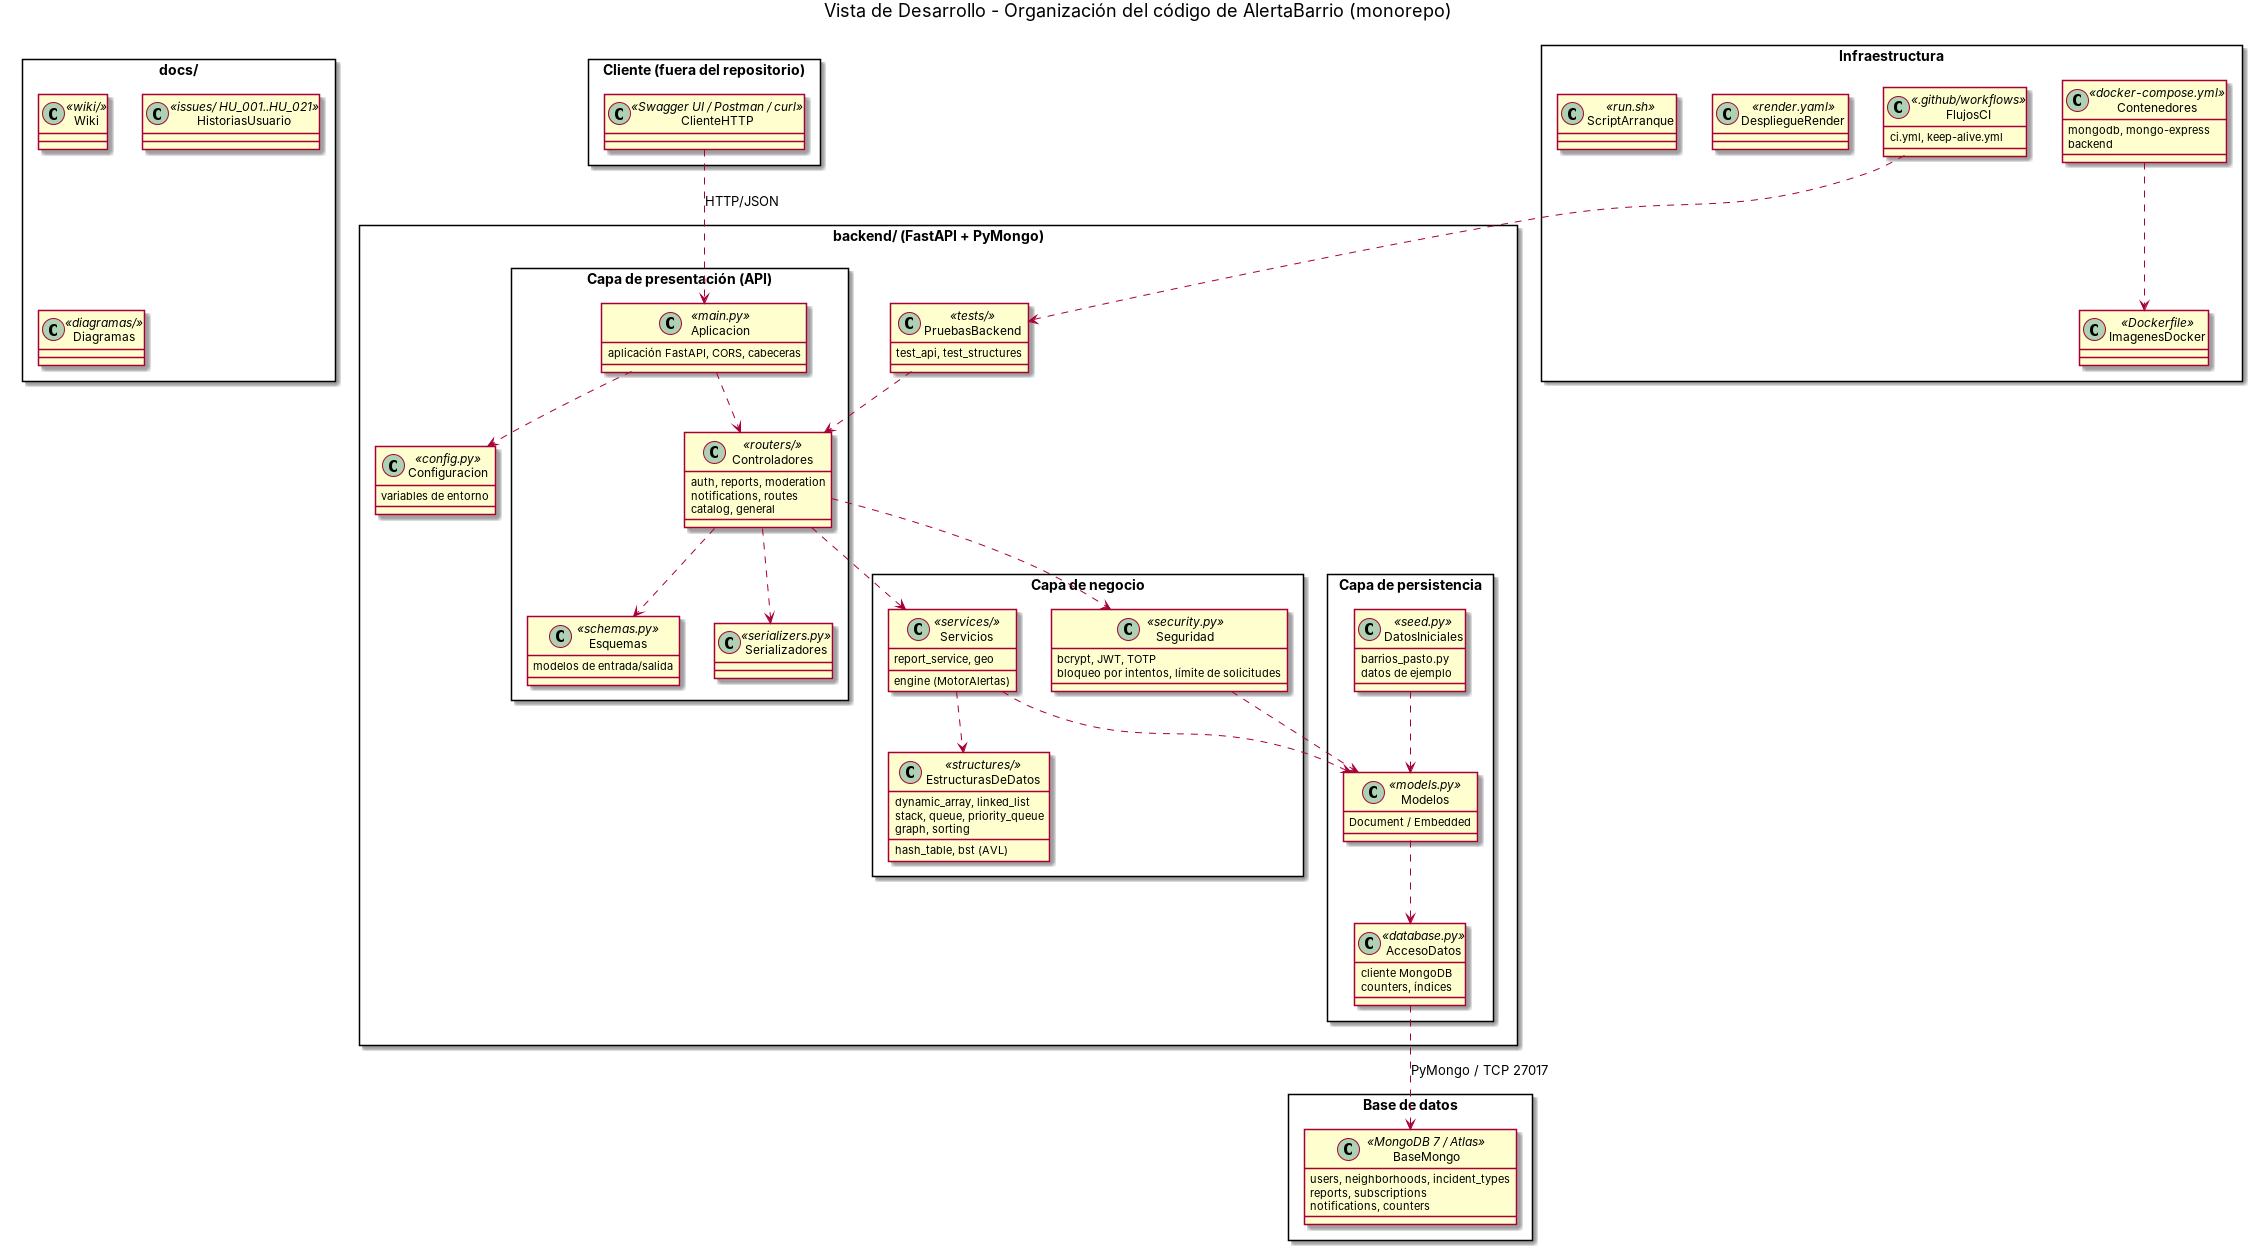
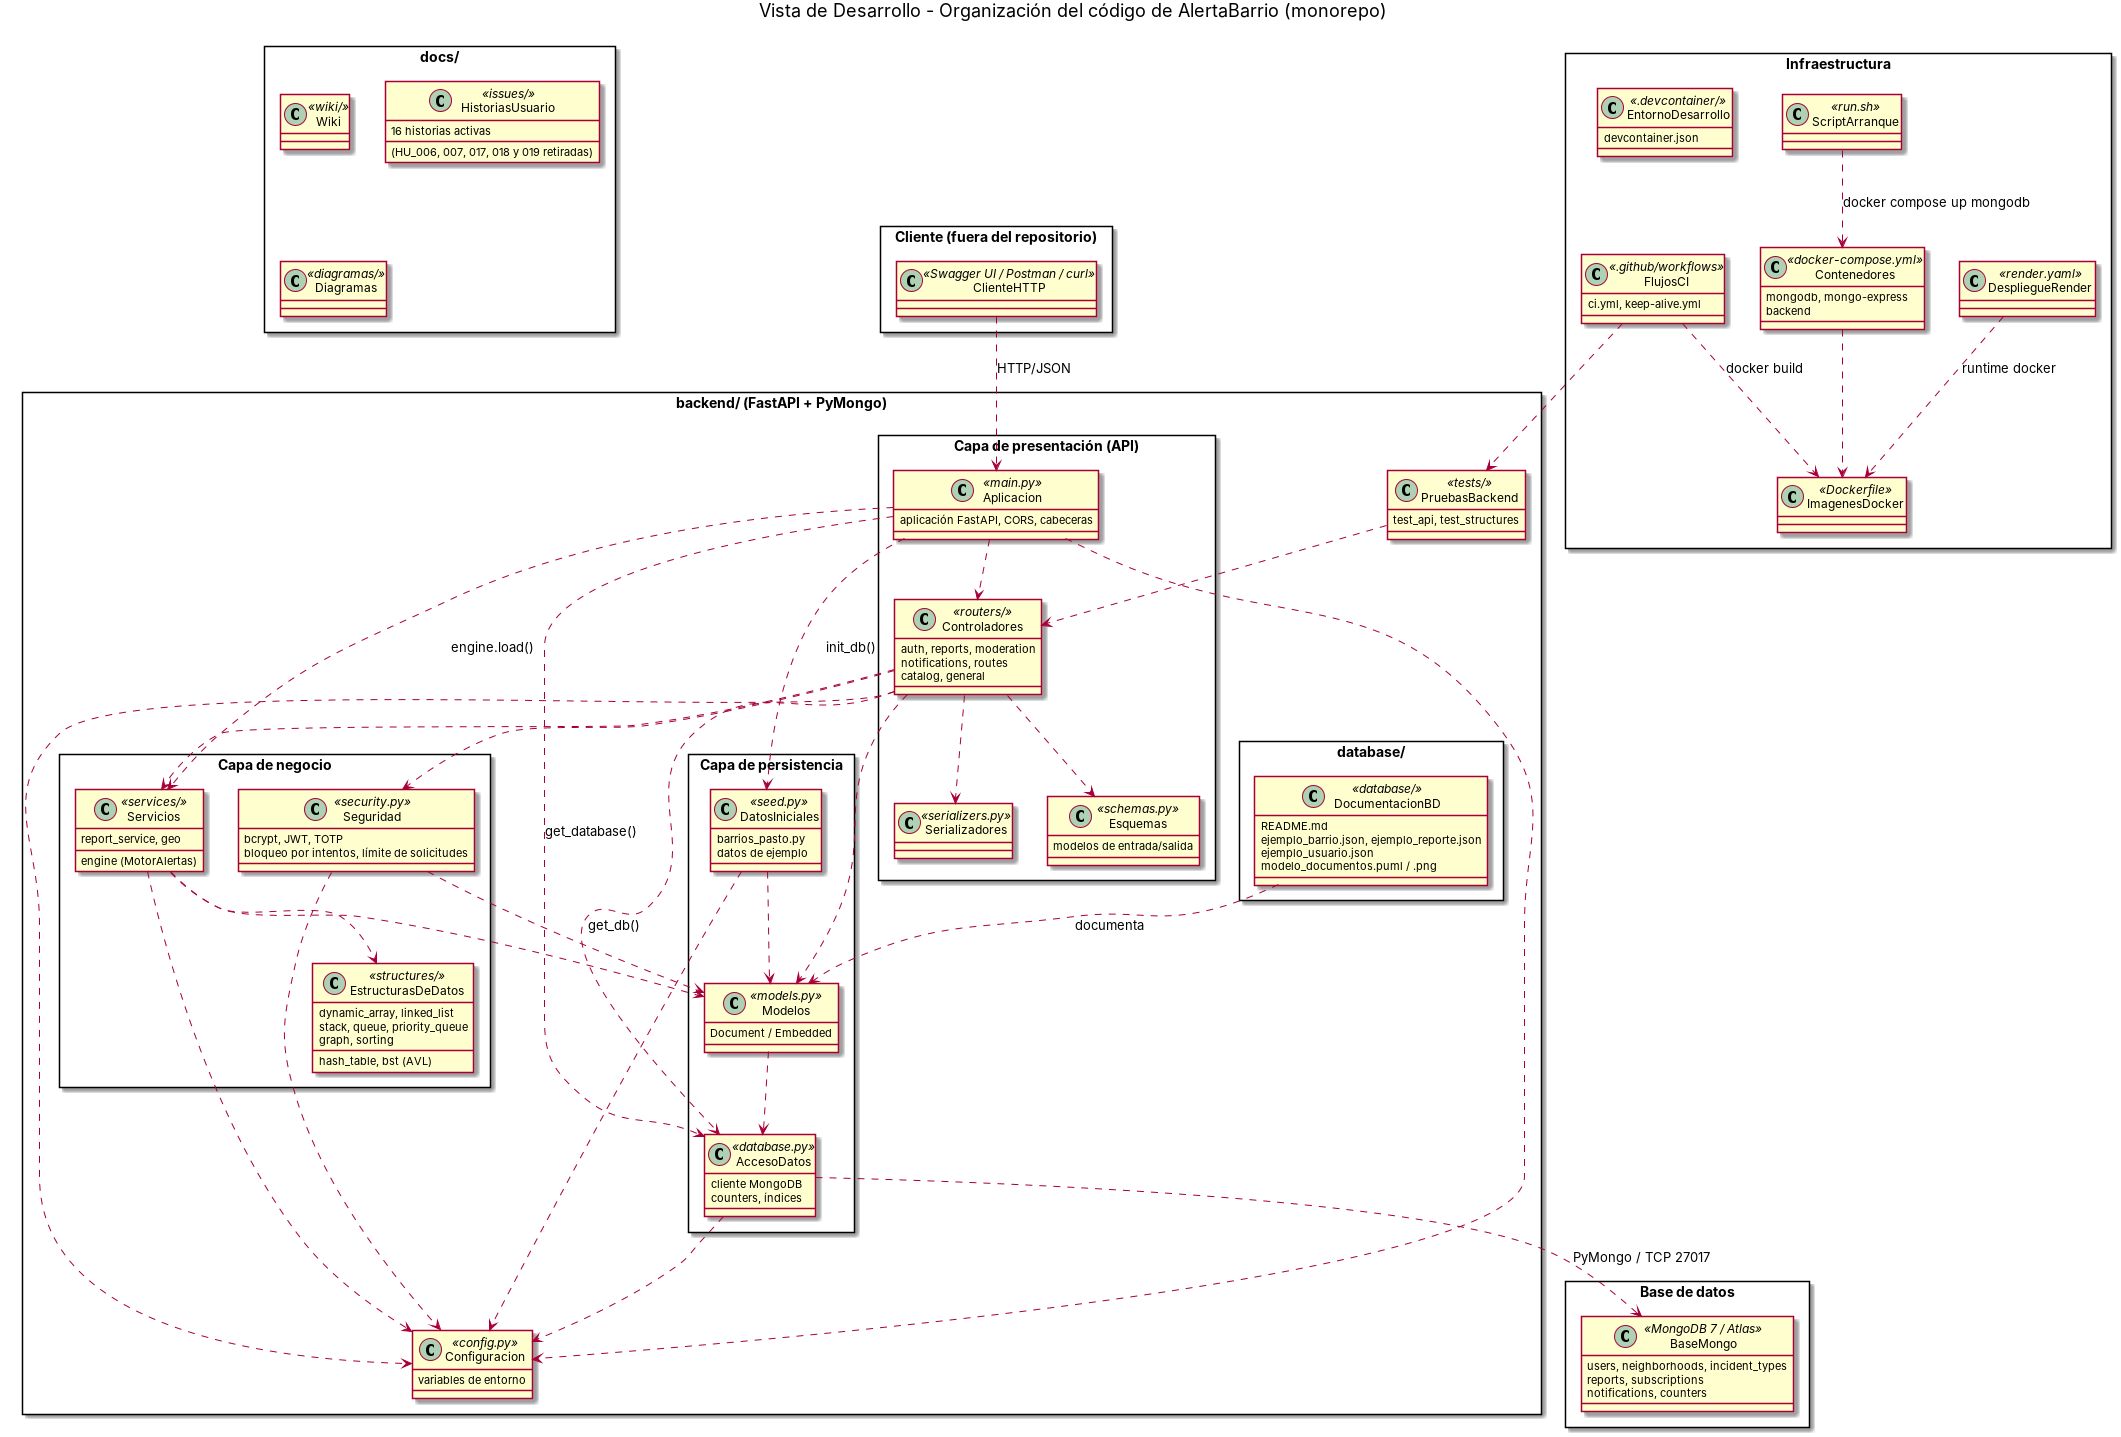
docs: vista de desarrollo con dependencias reales, database/ y .devcontainer

Changed region(s): [[0.0, 0.0312, 1.0, 0.9984], [0.3734, 0.0, 0.6535, 0.0312], [0.2801, 0.624, 0.3112, 0.6552]]

diff --git a/docs/wiki/06-Arquitectura-4+1-Vistas.md b/docs/wiki/06-Arquitectura-4+1-Vistas.md
@@ -107,11 +107,18 @@ Diagrama de clases con dos partes: abajo el **dominio** guardado en MongoDB y ar
 | `backend/` — Capa de negocio | Seguridad → `security.py`, Servicios → `services/` (engine = MotorAlertas, report_service, geo), EstructurasDeDatos → `structures/` |
 | `backend/` — Capa de persistencia | Modelos → `models.py`, AccesoDatos → `database.py`, DatosIniciales → `seed.py` |
 | `backend/` — transversales | Configuracion → `config.py`, PruebasBackend → `tests/` |
+| `backend/database/` | DocumentacionBD: `README.md`, ejemplos JSON (barrio, reporte, usuario) y `modelo_documentos.puml` / `.png` |
 | Base de datos | **MongoDB 7** (local con Docker, producción en MongoDB Atlas): 6 colecciones + `counters` |
-| Infraestructura | `docker-compose.yml`, `Dockerfile`, `.github/workflows` (ci, keep-alive), `render.yaml`, `run.sh` |
-| `docs/` | wiki, historias de usuario (issues) y diagramas |
+| Infraestructura | `docker-compose.yml`, `Dockerfile`, `.github/workflows` (ci, keep-alive), `render.yaml`, `run.sh`, `.devcontainer/` |
+| `docs/` | wiki, 16 historias de usuario activas en `issues/` (HU_006, 007, 017, 018 y 019 retiradas) y diagramas |
 
 Los clientes solo hablan con el backend por HTTP/JSON. Los controladores delegan en los servicios, que usan las estructuras de datos y los modelos. Solo `database.py` y `models.py` hablan con MongoDB.
+
+**Dependencias que muestra el diagrama:**
+- `main.py` al arrancar (`lifespan`): `init_db()` de `seed.py`, `get_database()` de `database.py` y `engine.load()` del motor.
+- Los controladores usan `get_db()` y también leen modelos directamente (por ejemplo `reports.py`, `notifications.py`, `catalog.py`).
+- `config.py` (variables de entorno) lo usan `main.py`, `security.py`, `database.py`, `report_service.py`, `seed.py` y algunos routers.
+- `run.sh` levanta MongoDB con `docker compose`; `render.yaml` y el CI construyen la imagen con el `Dockerfile`.
 
 ---
 
